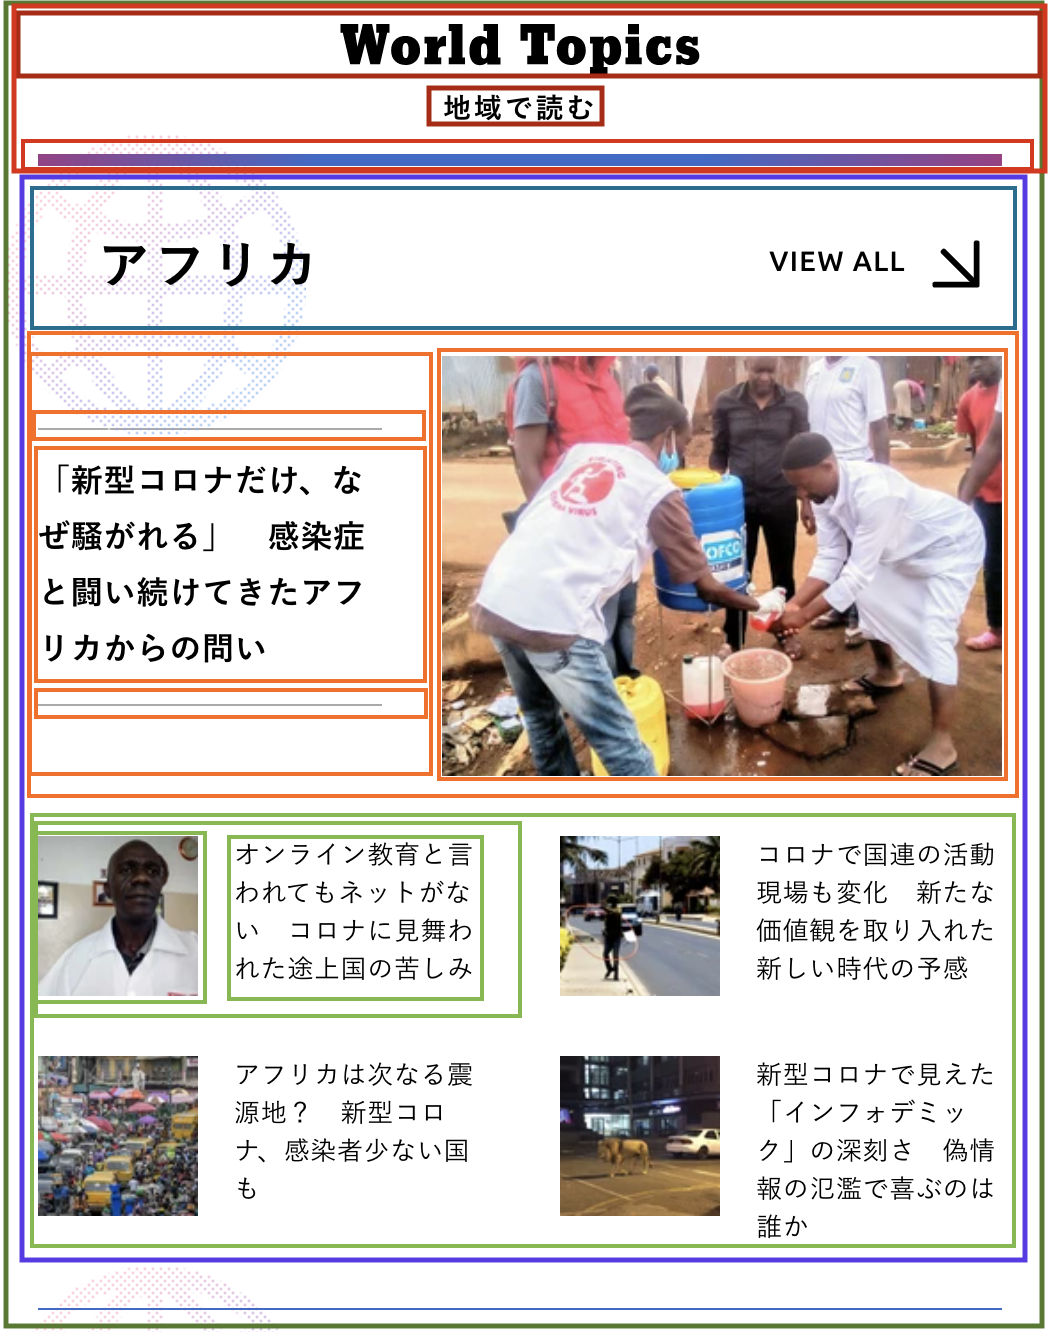
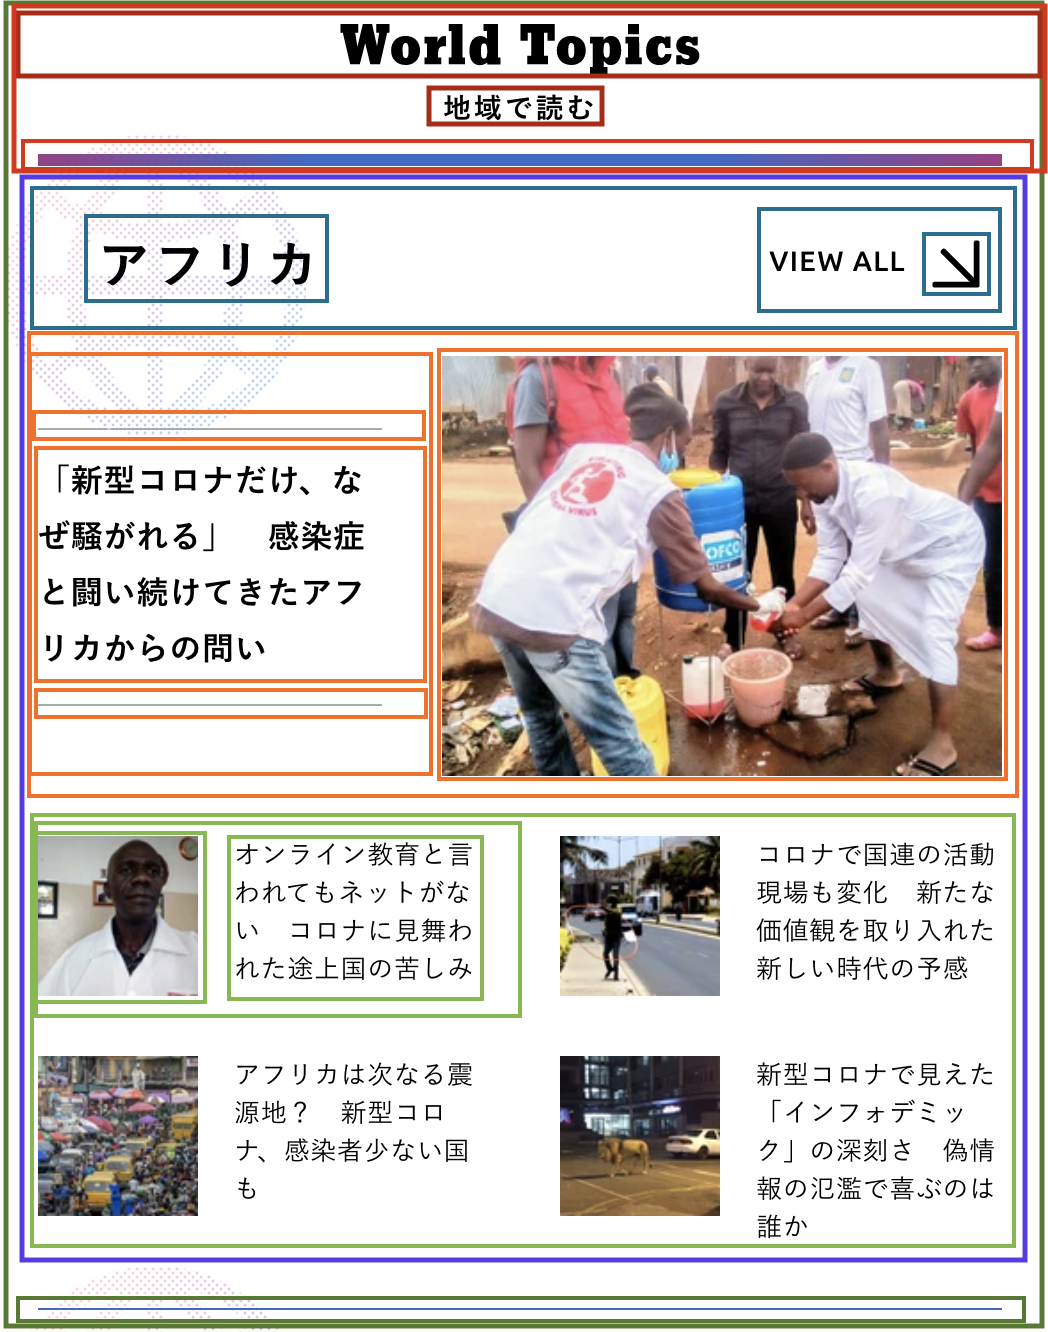
[update] update float layout

diff --git a/layoutpractice/0615/0615.html b/layoutpractice/0615/0615.html
@@ -24,7 +24,7 @@
         <div class="template"><img src="" alt="FLEX LAYOUT"></div>
     </div>
     <div class="section section--float">
-        <h2 style="font-size: 3.6rem; text-align: center;">Float</h2>
+        <h2 style="font-size: 3.6rem; text-align: center;">Float <a href="https://globe.asahi.com/">參考網站</a></h2>
         <div class="template" style="max-width: 600px;margin: 0 auto;"><img src="./img/float0615.png" alt="float LAYOUT" style="width: 100%;"></div>
         <div class="article">
             <div class="article-container">
@@ -49,24 +49,28 @@
                         </a>
                     </div>
                     <div class="article-content__banner">
-                        <a href="#" class="artilce-content__banner__link"></a>
+                        <a href="#" class="article-content__banner__link article__linkarea"></a>
                         <h3 class="article-content__banner__title">「新型コロナだけ、なぜ騒がれる」　感染症と闘い続けてきたアフリカからの問い</h3>
                         <div class="article-content__banner__img-box"><img src="./img/banner__Img.webp" alt=""></div>
                     </div>
                     <div class="article-content__newsWrap">
                         <div class="article-content__news">
+                            <a href="#" class="article-content__news__link article__linkarea"></a>
                             <div class="article-content__news__img-box"><img src="./img/new__img.webp" alt=""></div>
                             <p class="article-content__news__txt">オンライン教育と言われてもネットがない　コロナに見舞われた途上国の苦しみ</p>
                         </div>
                         <div class="article-content__news">
+                            <a href="#" class="article-content__news__link article__linkarea"></a>
                             <div class="article-content__news__img-box"><img src="./img/new__img.webp" alt=""></div>
                             <p class="article-content__news__txt">オンライン教育と言われてもネットがない　コロナに見舞われた途上国の苦しみ</p>
                         </div>
                         <div class="article-content__news">
+                            <a href="#" class="article-content__news__link article__linkarea"></a>
                             <div class="article-content__news__img-box"><img src="./img/new__img.webp" alt=""></div>
                             <p class="article-content__news__txt">オンライン教育と言われてもネットがない　コロナに見舞われた途上国の苦しみ</p>
                         </div>
                         <div class="article-content__news">
+                            <a href="#" class="article-content__news__link article__linkarea"></a>
                             <div class="article-content__news__img-box"><img src="./img/new__img.webp" alt=""></div>
                             <p class="article-content__news__txt">オンライン教育と言われてもネットがない　コロナに見舞われた途上国の苦しみ</p>
                         </div>
@@ -74,20 +78,9 @@
                 </div>
             </div>         
         </div>
-
-        <!-- <span style="width: 30px; height: 30px; display:inline-block">
-            <svg version="1.1" id="icon-arrow-02" xmlns="http://www.w3.org/2000/svg"
-                xmlns:xlink="http://www.w3.org/1999/xlink" x="0px" y="0px" viewBox="0 0 128 128"
-                style="enable-background:new 0 0 128 128;" xml:space="preserve">
-                <path class="st0" d="M122,10.8c0-2.7-2.2-4.8-4.8-4.8h-4.8c-2.7,0-4.8,2.2-4.8,4.8l0,86.4L37.3,27c-1.9-1.9-4.9-1.9-6.8,0L27,30.5
-	                c-1.9,1.9-1.9,4.9,0,6.8l70.2,70.2l-86.4,0c-2.7,0-4.8,2.2-4.8,4.8l0,4.8c0,2.7,2.2,4.8,4.8,4.8l96.7,0v0l9.6,0
-	                c2.7,0,4.8-2.2,4.8-4.8L122,10.8z" />
-            </svg>
-        </span> -->
-
     </div>
     <div class="section section--table">
-        <h2 style="font-size: 3.6rem; text-align: center;">Table</h2>
+        <h2 style="font-size: 3.6rem; text-align: center;">Table <a href="https://seikatsusoken.jp/teiten/about.html#howto2">參考網站</a></h2>
         <div class="template" style="max-width: 915px; margin: 0 auto;margin-bottom: 3rem;"><img src="./img/table0615.png" alt="table LAYOUT" style="width: 100%;"></div>
         <table class="table">
             <thead>

diff --git a/layoutpractice/0615/scss/component/_float.scss b/layoutpractice/0615/scss/component/_float.scss
@@ -42,6 +42,20 @@
 
     // content
 
+    &__linkarea {
+        position: absolute;
+        top: 0; bottom: 0; right: 0; left: 0;
+
+        &:hover {
+            ~ .article-content__banner__title {
+                color: #0000aa;;
+            }
+            ~ .article-content__news__txt {
+                color: orange;
+            }
+        }
+    }
+
     &-content {
 
         &::after {
@@ -74,13 +88,24 @@
             }
         }
 
+    
 
         &__banner {
+            position: relative;
+            z-index: 0;
             @include clear;
-            margin-bottom: 4.5rem;
+            margin-bottom: 3rem;
+
             &__link {
-                display: none;
+                // position: absolute;
+                // top: 0; bottom: 0; right: 0; left: 0;
+                // &:hover {
+                //     ~ .article-content__banner__title {
+                //     color: #0000aa;;
+                //     }
+                // }
             }
+
             &__title {
                 font-size: 1.8rem;
                 font-weight: bold;
@@ -91,6 +116,21 @@
                 padding: 7.2rem 0;
                 padding-right: 63%;
                 padding-left: 1.2rem;
+                
+                &::before,
+                &::after  {
+                    content: '';
+                    display: block;
+                    height: 1px;
+                    // padding: .09rem 0;
+                    background: #ccc;
+                }
+                &::before {
+                    margin-bottom: 1.2rem;
+                }
+                &::after {
+                    margin-top: 1.2rem;
+                }
             }
             &__img-box {
                 float: left;
@@ -101,16 +141,17 @@
 
 
 
-        &__news {
+        &__news {    
+            position: relative;
+            float: left;
+            @include grid-sys(2,7.5);
+            margin-bottom: 1.5rem;
 
+            
             &Wrap {
                 @include clear;
             }
 
-    
-            float: left;
-            @include grid-sys(2,7.5);
-            margin-bottom: 1.5rem;
 
             &__img-box {
                 float: left;
@@ -128,12 +169,6 @@
             // use fleoat 兩端對齊 , 較麻煩 , 如果 viewAll btn 大小變化 , margin-left要跟者調整 , 或者直接設定寬度
             // float: left;
             // margin-left: -6.5rem;
-            &:hover {
-                color: #00aacd;
-                > .arrow {
-                    // transform: translate(6px,6px);
-                }
-            }
 
             > .arrow {
                 display: inline-block;
@@ -144,6 +179,4 @@
             }
         }
     }
-
-
 }

diff --git a/layoutpractice/0615/style/style.css b/layoutpractice/0615/style/style.css
@@ -106,6 +106,17 @@ ol h2 {
   font-size: 1.8rem;
   letter-spacing: 2.1px; }
 
+.article__linkarea {
+  position: absolute;
+  top: 0;
+  bottom: 0;
+  right: 0;
+  left: 0; }
+  .article__linkarea:hover ~ .article-content__banner__title {
+    color: #0000aa; }
+  .article__linkarea:hover ~ .article-content__news__txt {
+    color: orange; }
+
 .article-content::after {
   content: '';
   display: block;
@@ -125,13 +136,13 @@ ol h2 {
   letter-spacing: 3px; }
 
 .article-content__banner {
-  margin-bottom: 4.5rem; }
+  position: relative;
+  z-index: 0;
+  margin-bottom: 3rem; }
   .article-content__banner::after {
     content: '';
     display: block;
     clear: both; }
-  .article-content__banner__link {
-    display: none; }
   .article-content__banner__title {
     font-size: 1.8rem;
     font-weight: bold;
@@ -140,22 +151,32 @@ ol h2 {
     padding: 7.2rem 0;
     padding-right: 63%;
     padding-left: 1.2rem; }
+    .article-content__banner__title::before, .article-content__banner__title::after {
+      content: '';
+      display: block;
+      height: 1px;
+      background: #ccc; }
+    .article-content__banner__title::before {
+      margin-bottom: 1.2rem; }
+    .article-content__banner__title::after {
+      margin-top: 1.2rem; }
   .article-content__banner__img-box {
     float: left;
     width: 57%;
     margin-left: -57%; }
 
 .article-content__news {
+  position: relative;
   float: left;
   margin-right: 7.5%;
   width: 46.25%;
   margin-bottom: 1.5rem; }
+  .article-content__news:nth-child(2n) {
+    margin-right: 0; }
   .article-content__newsWrap::after {
     content: '';
     display: block;
     clear: both; }
-  .article-content__news:nth-child(2n) {
-    margin-right: 0; }
   .article-content__news__img-box {
     float: left; }
   .article-content__news__txt {
@@ -163,9 +184,6 @@ ol h2 {
     font-size: 1.42rem;
     line-height: 1.5;
     padding-left: 1.8rem; }
-
-.article-content__articleAll:hover {
-  color: #00aacd; }
 
 .article-content__articleAll > .arrow {
   display: inline-block;
